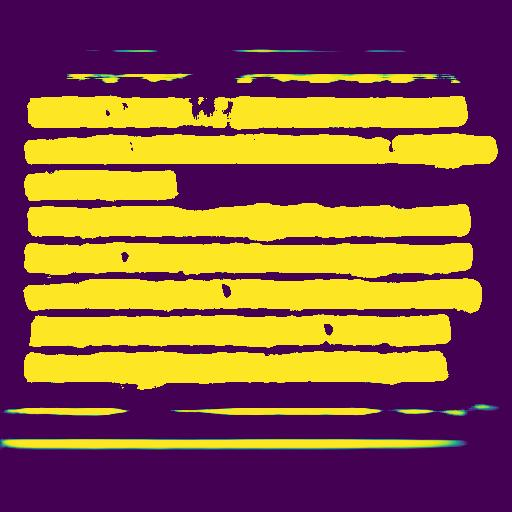
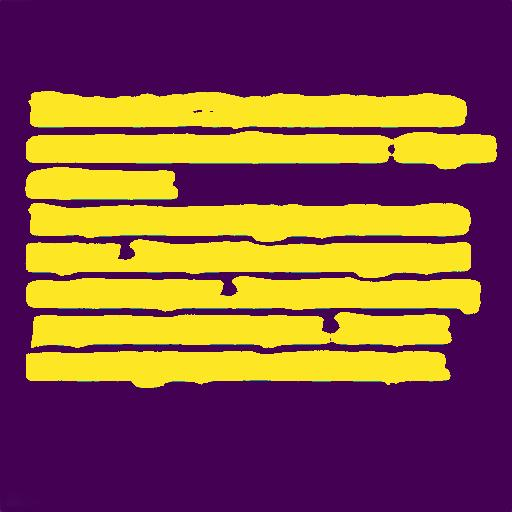
LineSeg

diff --git a/imgSeg.py b/imgSeg.py
@@ -144,7 +144,7 @@ trainF = img_list[0:int(0.75*len(img_list))]
 testF = img_list[int(0.75*len(img_list)):]
 
 mc = tf.keras.callbacks.ModelCheckpoint("weights{epoch:08d}.h5", save_weights_only=True, save_freq=1)
-
+"""
 model.fit(batch_generator(trainF, 2, 2), epochs=4, steps_per_epoch=100, validation_data=batch_generator(testF,2,2),
                     validation_steps=400, callbacks=[mc], shuffle=1)
 """
@@ -159,4 +159,29 @@ pred = np.squeeze(np.squeeze(pred, axis=0), axis=-1)
 plt.imshow(pred, cmap="gray")
 
 plt.imsave("test_img_mask.JPG", pred)
-"""
+
+cords = []
+img = cv2.imread(f'./test_img_mask.JPG', 0)
+cv2.threshold(img, 0, 255, cv2.THRESH_BINARY + cv2.THRESH_OTSU, img)
+
+OG_img = cv2.imread(f"./Tests/test.jpg", 0)
+OG_img = cv2.resize(OG_img, (512, 512))
+
+cont, hier = cv2.findContours(img, cv2.RETR_EXTERNAL, cv2.CHAIN_APPROX_NONE)
+
+if len(cont) == 0:
+    print("No contours found. Check the thresholding result.")
+else:
+    for c in cont:
+        x, y, w, h = cv2.boundingRect(c)
+
+        # Ensure the coordinates are within the image bounds
+        if x >= 0 and y >= 0 and x + w <= OG_img.shape[1] and y + h <= OG_img.shape[0]:
+            cv2.rectangle(OG_img, (x, y), (x + w, y + h), 0, 1)
+            cords.append([x, y, (x + w), (y + h)])
+
+    #cv2.drawContours(img, cont, -1, (255, 255, 0), 1)
+    print(cords)
+    cv2.imwrite("output.png", OG_img)
+
+visualize(img, OG_img)

diff --git a/OCR.py b/OCR.py
@@ -26,6 +26,9 @@ def perform_OCR(img_path):
 
     return ocr_text
 
+def image_to_string(img, lang=None):
+    
+
 if __name__ == "__main__":
     main()
 
